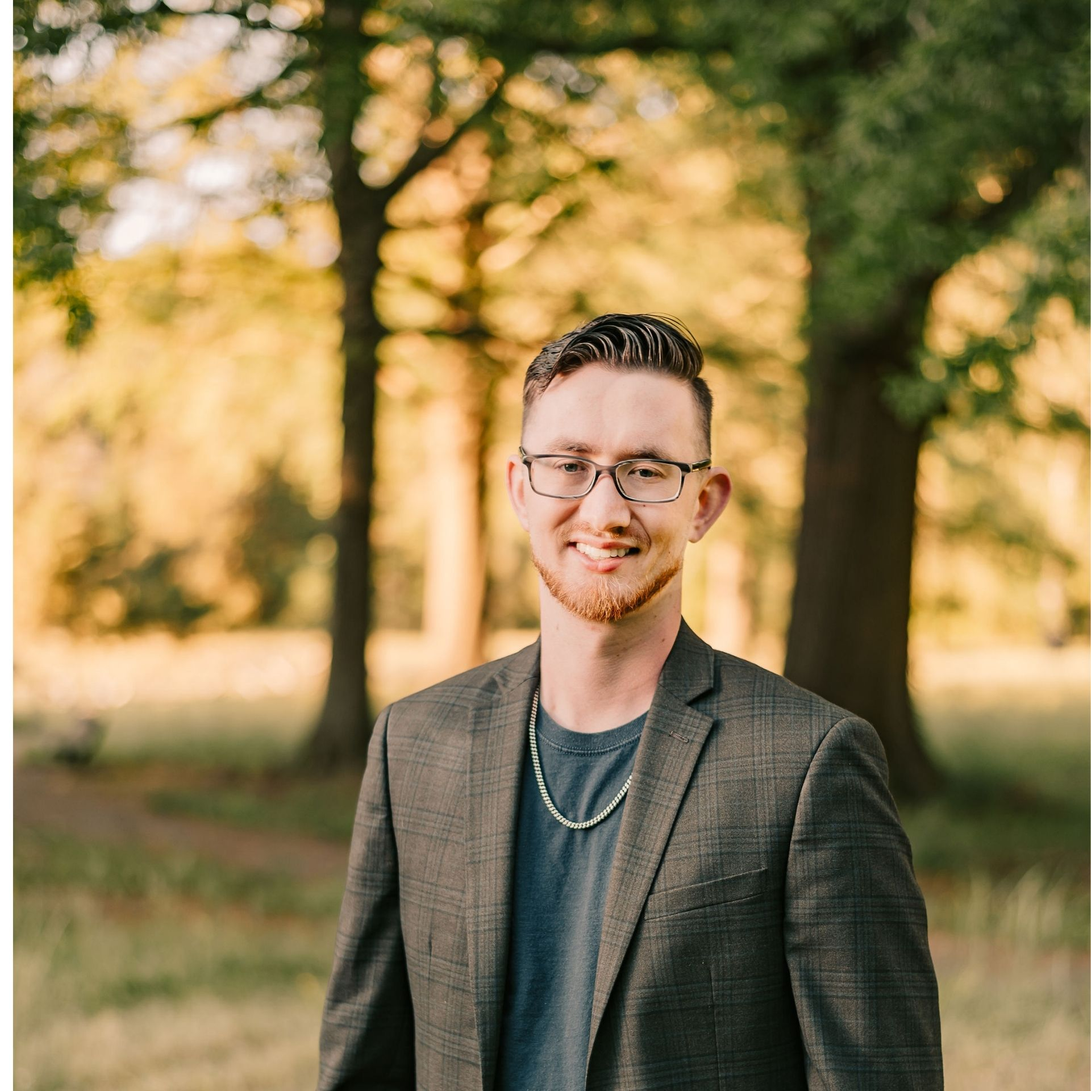
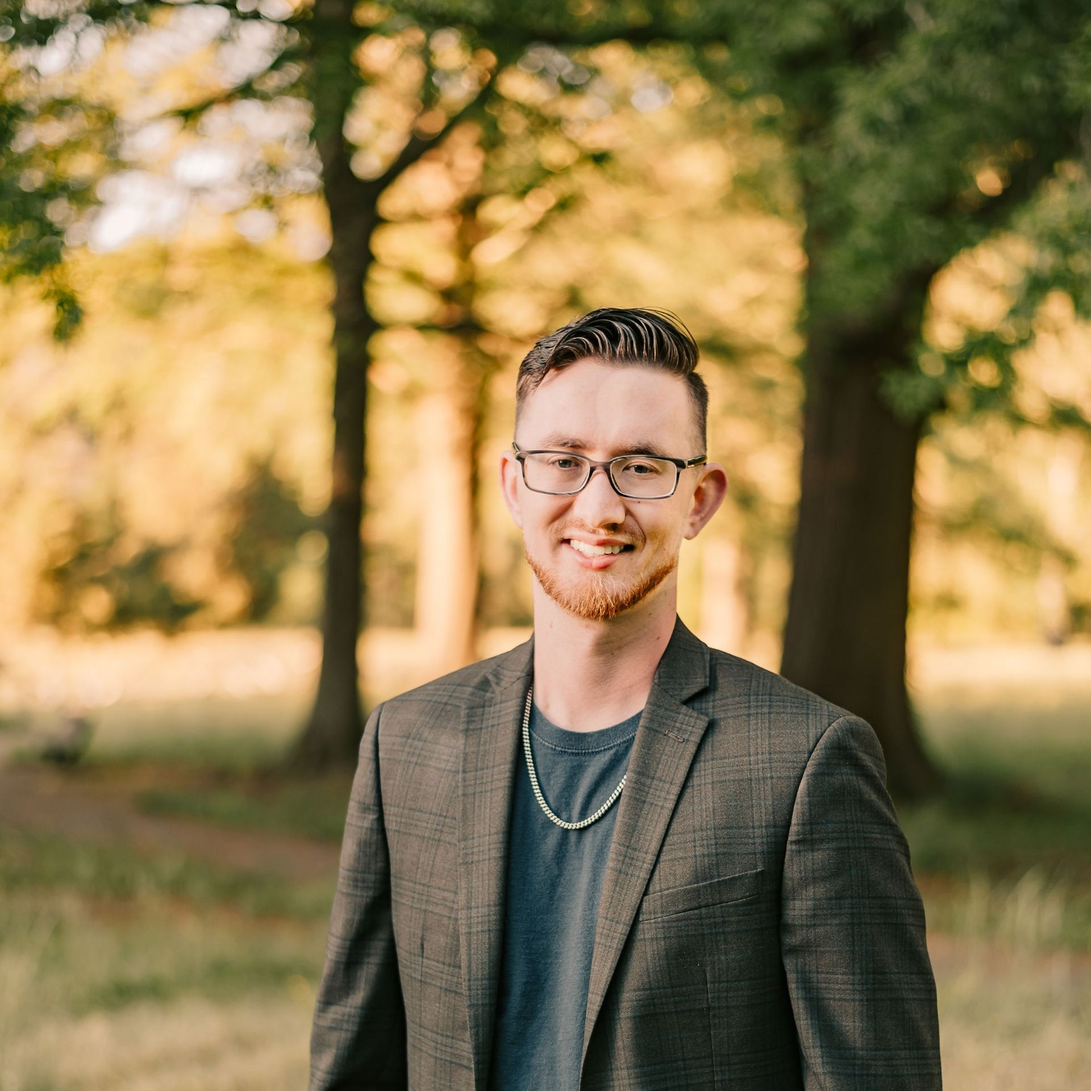
Update image

diff --git a/music/index.html b/music/index.html
@@ -54,16 +54,16 @@
         <footer>
             <div class="container">
                 <div class="social-light">
-                    <a href="https://www.linkedin.com/in/calebtupper/" target="_blank" role="link"><img src="/assets/img/web-icons/linkedin.png" alt="LinkedIn" /></a>
-                    <a href="https://www.instagram.com/caleb.tupper/" target="_blank" role="link"><img src="/assets/img/web-icons/instagram.png" alt="Instagram" /></a>
-                    <a href="https://open.spotify.com/artist/1KVyAw1KLWNEuEI2D5MtWm" target="_blank" role="link"><img src="/assets/img/web-icons/spotify.png" alt="Spotify" /></a>
-                    <!--a href="https://music.apple.com/artist/lyon-hp/1541306142" target="_blank" role="link"><img src="/assets/img/web-icons/apple-music.png" alt="Apple Music" /></a-->
+                    <a href="https://www.linkedin.com/in/calebtupper/" target="_blank" role="link"><img src="../assets/img/web-icons/linkedin.png" alt="LinkedIn" /></a>
+                    <a href="https://www.instagram.com/caleb.tupper/" target="_blank" role="link"><img src="../assets/img/web-icons/instagram.png" alt="Instagram" /></a>
+                    <a href="https://open.spotify.com/artist/1KVyAw1KLWNEuEI2D5MtWm" target="_blank" role="link"><img src="../assets/img/web-icons/spotify.png" alt="Spotify" /></a>
+                    <!--a href="https://music.apple.com/artist/lyon-hp/1541306142" target="_blank" role="link"><img src="../assets/img/web-icons/apple-music.png" alt="Apple Music" /></a-->
                 </div>
                 <div class="social-dark">
-                    <a href="https://www.linkedin.com/in/calebtupper/" target="_blank" role="link"><img src="/assets/img/web-icons/linkedin-white.png" alt="LinkedIn" /></a>
-                    <a href="https://www.instagram.com/caleb.tupper/" target="_blank" role="link"><img src="/assets/img/web-icons/instagram-white.png" alt="Instagram" /></a>
-                    <a href="https://open.spotify.com/artist/1KVyAw1KLWNEuEI2D5MtWm" target="_blank" role="link"><img src="/assets/img/web-icons/spotify-white.png" alt="Spotify" /></a>
-                    <!--a href="https://music.apple.com/artist/lyon-hp/1541306142" target="_blank" role="link"><img src="/assets/img/web-icons/apple-music-white.png" alt="Apple Music" /></a-->
+                    <a href="https://www.linkedin.com/in/calebtupper/" target="_blank" role="link"><img src="../assets/img/web-icons/linkedin-white.png" alt="LinkedIn" /></a>
+                    <a href="https://www.instagram.com/caleb.tupper/" target="_blank" role="link"><img src="../assets/img/web-icons/instagram-white.png" alt="Instagram" /></a>
+                    <a href="https://open.spotify.com/artist/1KVyAw1KLWNEuEI2D5MtWm" target="_blank" role="link"><img src="../assets/img/web-icons/spotify-white.png" alt="Spotify" /></a>
+                    <!--a href="https://music.apple.com/artist/lyon-hp/1541306142" target="_blank" role="link"><img src="../assets/img/web-icons/apple-music-white.png" alt="Apple Music" /></a-->
                 </div>
                 <ul>
                     <li><a href="/">Home</a></li>

diff --git a/in.html b/in.html
@@ -22,7 +22,7 @@
     </head>
     <body class="">
         <!--This link is a redirect from my Instagram Bio-->
-        <script>window.location.replace("https://www.calebtupper.com/music?utm_source=instagram&utm_medium=social&utm_campaign=instagram-bio");</script>
+        <script>window.location.replace("https://www.calebtupper.com?utm_source=instagram&utm_medium=social&utm_campaign=instagram-bio");</script>
        <!-- Google Tag Manager (noscript) -->
         <noscript><iframe src="https://www.googletagmanager.com/ns.html?id=GTM-NL29ZKK"
         height="0" width="0" style="display:none;visibility:hidden"></iframe></noscript>
@@ -37,7 +37,7 @@
          <div class="container header" role="banner">
             <a href="/"><h1 class="tac" style="padding:10px" role="heading" aria-level="1">Caleb Tupper</h1></a>
         </div>
-        <div class="container banner-bg" style="background-image:url(assets/img/caleb-tupper.jpg); background-position:50% 25%; background-size:cover; overflow:hidden;">
+        <div class="container banner-bg" style="background-image:url(assets/img/caleb-tupper.jpg); background-position:50% 50%; background-size:cover; overflow:hidden;">
             <div class="row banner">
                 <h2 role="heading" aria-level="2">Marketing Automation<br />Management</h2>
                 <a class="first btn" href="https://www.linkedin.com/in/calebtupper/" target="_blank">Connect with Caleb</a>

diff --git a/index.html b/index.html
@@ -34,7 +34,7 @@
         <div class="container header" role="banner">
             <a href="/"><h1 class="tac" style="padding:10px" role="heading" aria-level="1">Caleb Tupper</h1></a>
         </div>
-        <div class="container banner-bg" style="background-image:url(assets/img/caleb-tupper.jpg); background-position:50% 25%; background-size:cover; overflow:hidden;">
+        <div class="container banner-bg" style="background-image:url(assets/img/caleb-tupper.jpg); background-position:50% 45%; background-size:cover; overflow:hidden;">
             <div class="row banner">
                 <h2 role="heading" aria-level="2">Marketing Automation<br />Management</h2>
                 <a class="first btn" href="https://www.linkedin.com/in/calebtupper/" target="_blank">Connect with Caleb</a>
